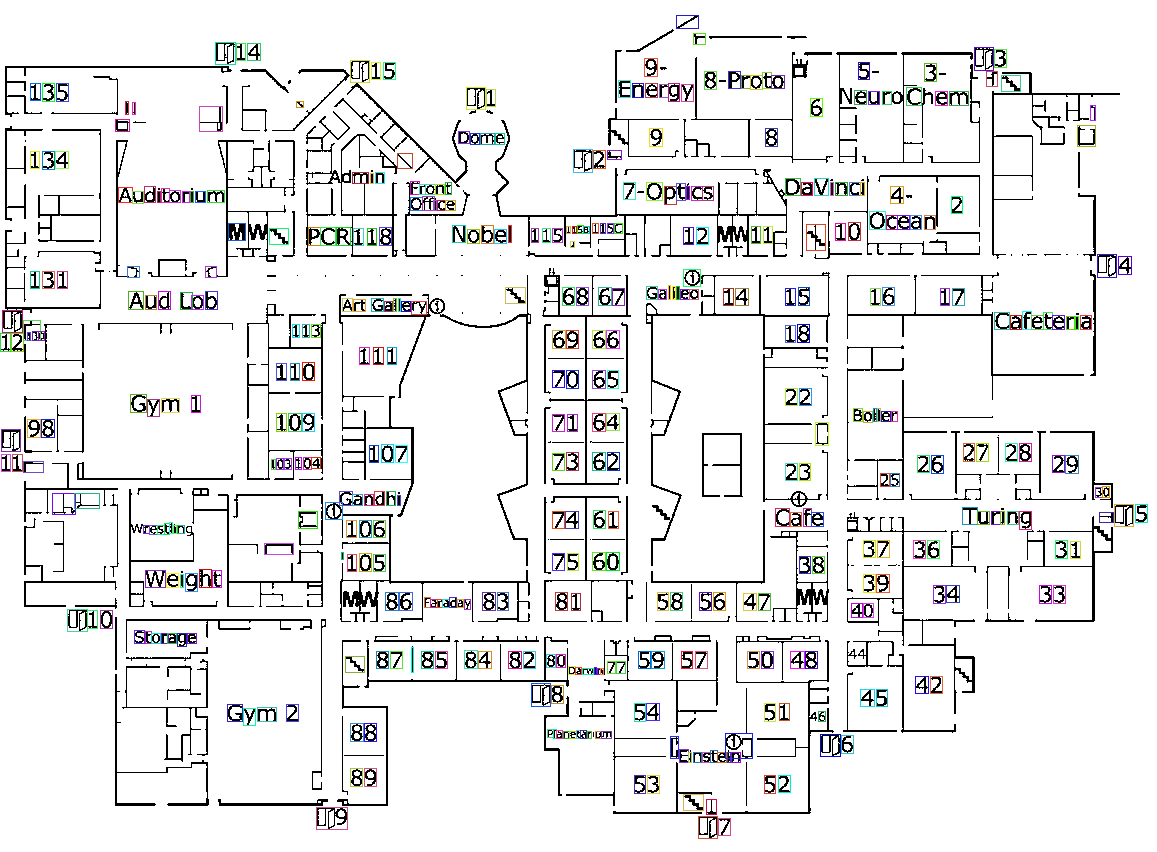
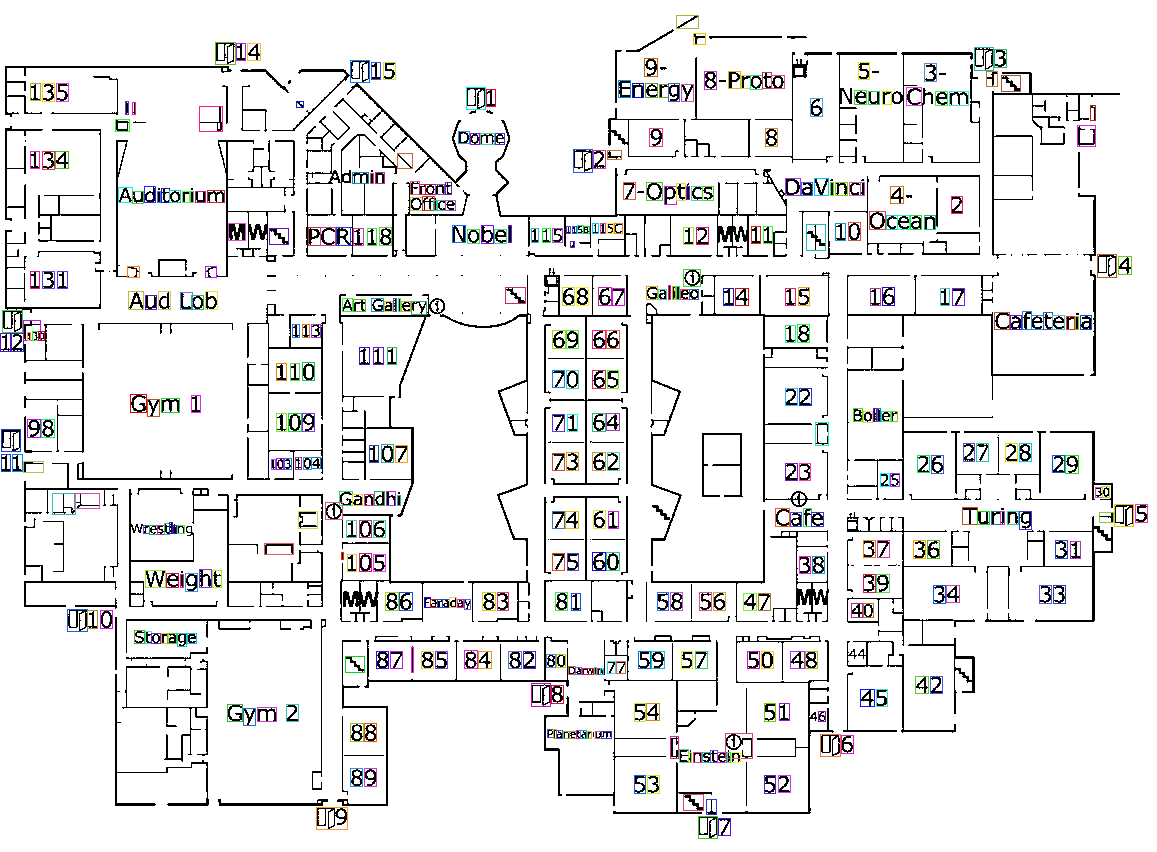
Update recognition - added to-do list

diff --git a/recognize_characters.py b/recognize_characters.py
@@ -23,7 +23,7 @@ FILE_NAME = IMAGE_SAVE_PATH + "practice_map.jpg"
 DIST_BETWEEN_LETTERS = 15
 DIST_FOR_SPACE = 4
 Y_THRESHOLD = 6
-BW_THRESHOLD = 126 # Values less than this will become black, 150
+BW_THRESHOLD = 150 # Values less than this will become black
 RESIZE = 2
 PADDING = 3
 RMSE_THRESHOLD = 0.035
@@ -364,6 +364,7 @@ def process_image(boxes, pixels):
             s = list(symbols.values())[0][0]
             print("Symbol:", s)
             room_names.append(s)
+            remove_box(pixels, detected_name[0][0], detected_name[0][1], detected_name[0][2], detected_name[0][3])
             continue
 
         # Use full word
@@ -379,6 +380,9 @@ def process_image(boxes, pixels):
         full_word.replace(",", "")
 
         if "|" in full_word:
+            if len(full_word) == 1:
+                continue
+
             pipe = full_word.index("|")
             full_word1 = full_word[:pipe]
             full_word2 = full_word[pipe + 1:]
@@ -392,8 +396,6 @@ def process_image(boxes, pixels):
                 if i != pipe:
                     remove_box(pixels, b[0], b[1], b[2], b[3])
 
-            continue
-        if not full_word:
             continue
 
         if confidence >= CONFIDENCE_LEVEL:
@@ -508,8 +510,7 @@ WIDTH, HEIGHT = image.width, image.height
 
 print("Converting to black and white...")
 image_to_black_and_white(pixels)
-image.save(IMAGE_SAVE_PATH + "black_and_white.png")
-
+# image.save(IMAGE_SAVE_PATH + "black_and_white.png")
 	
 print("Drawing boxes...")
 boxes_image = image.copy()
@@ -536,3 +537,24 @@ if USING_TESSERACT:
 
     if not SHOW_IMAGES:
         print("Entire program took", round(time.perf_counter() - start_time, 3), "seconds.")
+
+"""
+To-do list:
+
+Repeat symbol detection for all symbols (right now only doing doors)
+Detect text wrapping
+Detect symbols that are next to walls
+- If found full name box that is not a real word, check left and right side
+    - Try to go all the way down that direction (allowing to go up and down)
+    - If vertical distance is greater than certain threshold, assume
+    that distance is a vertical wall and ignore all pixels with the same x-coord
+    - Splice the rest and create a bounding box on that region, then retry with full word
+    including that new box
+
+    - Make sure to add precaution to combine all letters that the wall may have interfered with
+    - For example, Chem might only be Ch + em
+
+At the end go throughout the entire image and try to pick up any extra symbols of that specific size
+(may be time-consuming, so might not do it)
+
+"""
